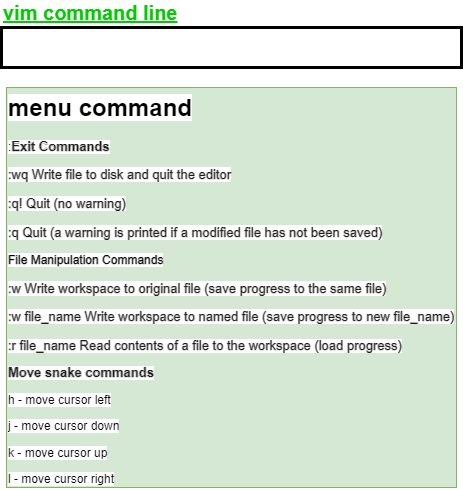
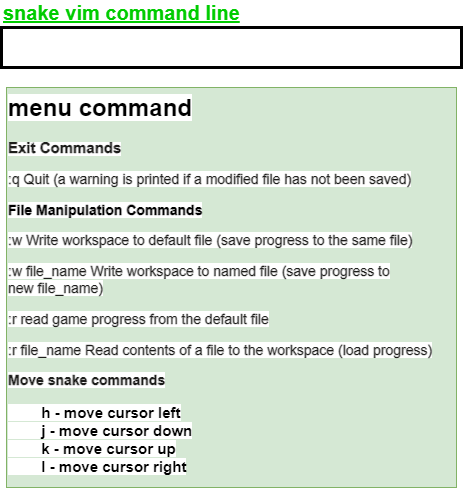
update description

Changed region(s): [[0.0, 0.2755, 0.9978, 1.0], [0.0, 0.0, 0.514, 0.0612]]

diff --git a/src/renderer.cpp b/src/renderer.cpp
@@ -61,7 +61,7 @@ Renderer::Renderer(const std::size_t screen_width,
     std::cerr << "Error creating texture: " << SDL_GetError() << std::endl;
   }
 
-  font = TTF_OpenFont(FONT_PATH, 72);
+  font = TTF_OpenFont(FONT_PATH, 52);
   if (!font)
   {
     std::cerr << "Error loading font: " << TTF_GetError() << std::endl;

diff --git a/README.md b/README.md
@@ -1,8 +1,36 @@
-# CPPND: Capstone Snake Game Example
+# CPPND: Capstone Snake Game Example. Snake VIM
 
 This is a starter repo for the Capstone project in the [Udacity C++ Nanodegree Program](https://www.udacity.com/course/c-plus-plus-nanodegree--nd213). The code for this repo was inspired by [this](https://codereview.stackexchange.com/questions/212296/snake-game-in-c-with-sdl) excellent StackOverflow post and set of responses.
 
 <img src="snake_game.gif"/>
+
+## how to control
+There's analog of vim menu to get access to quit, write and load game progress. At first during game you need to press ":" button to get access to command line.
+It would looks like below. After you need to write one of the command.
+<img src="assets\game_menu.png"/>
+
+### menu command
+Exit Commands
+
+:q Quit (a warning is printed if a modified file has not been saved)
+
+### File Manipulation Commands
+
+:w Write workspace to default file (save progress to the same file)
+
+:w file_name Write workspace to named file (save progress to new file_name)
+
+:r read game progress from the default file
+
+:r file_name Read contents of a file to the workspace (load progress)
+
+### Move snake commands
+Button below could be used during game to control snake direction movement. Its analog of VIM cursor control. 
+
+	h - move cursor left
+	j - move cursor down
+	k - move cursor up
+	l - move cursor right
 
 The Capstone Project gives you a chance to integrate what you've learned throughout this program. This project will become an important part of your portfolio to share with current and future colleagues and employers.
 
@@ -33,6 +61,7 @@ In this project, you can build your own C++ application or extend this Snake gam
 	https://github.com/aminosbh/sdl2-cmake-modules
 3. Compile: `cmake .. && make`
 4. Run it: `./SnakeGame`.
+
 
 
 ## CC Attribution-ShareAlike 4.0 International
